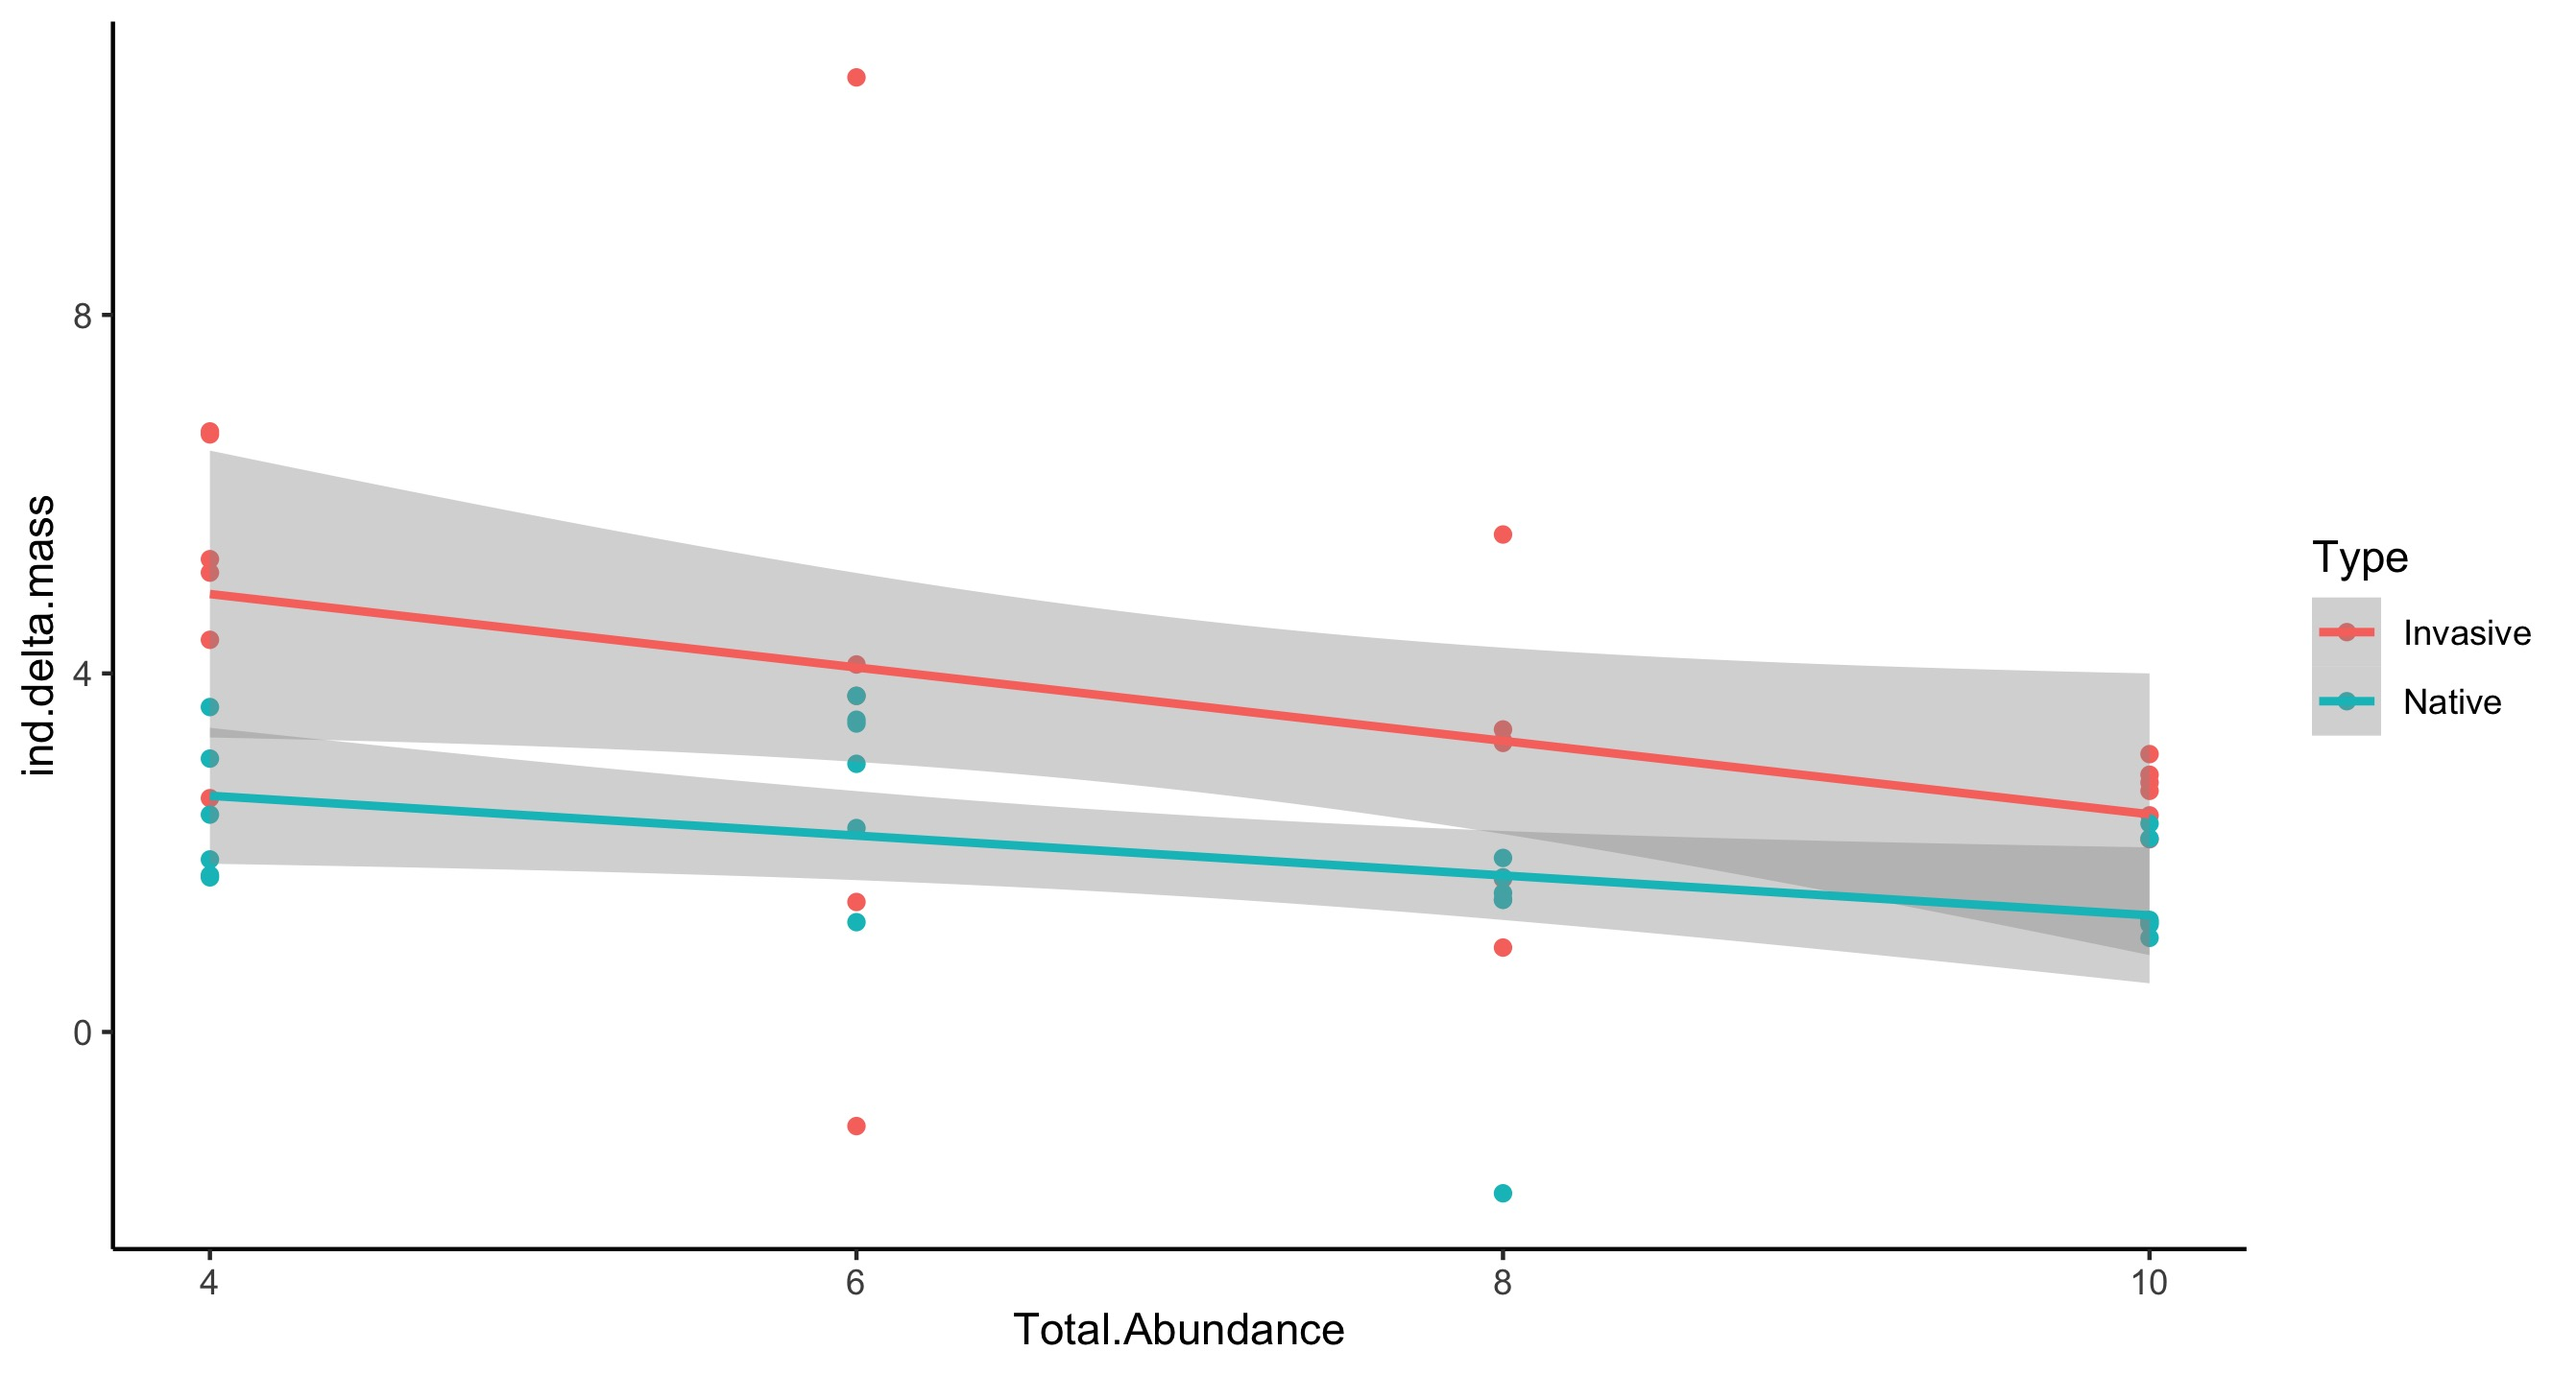
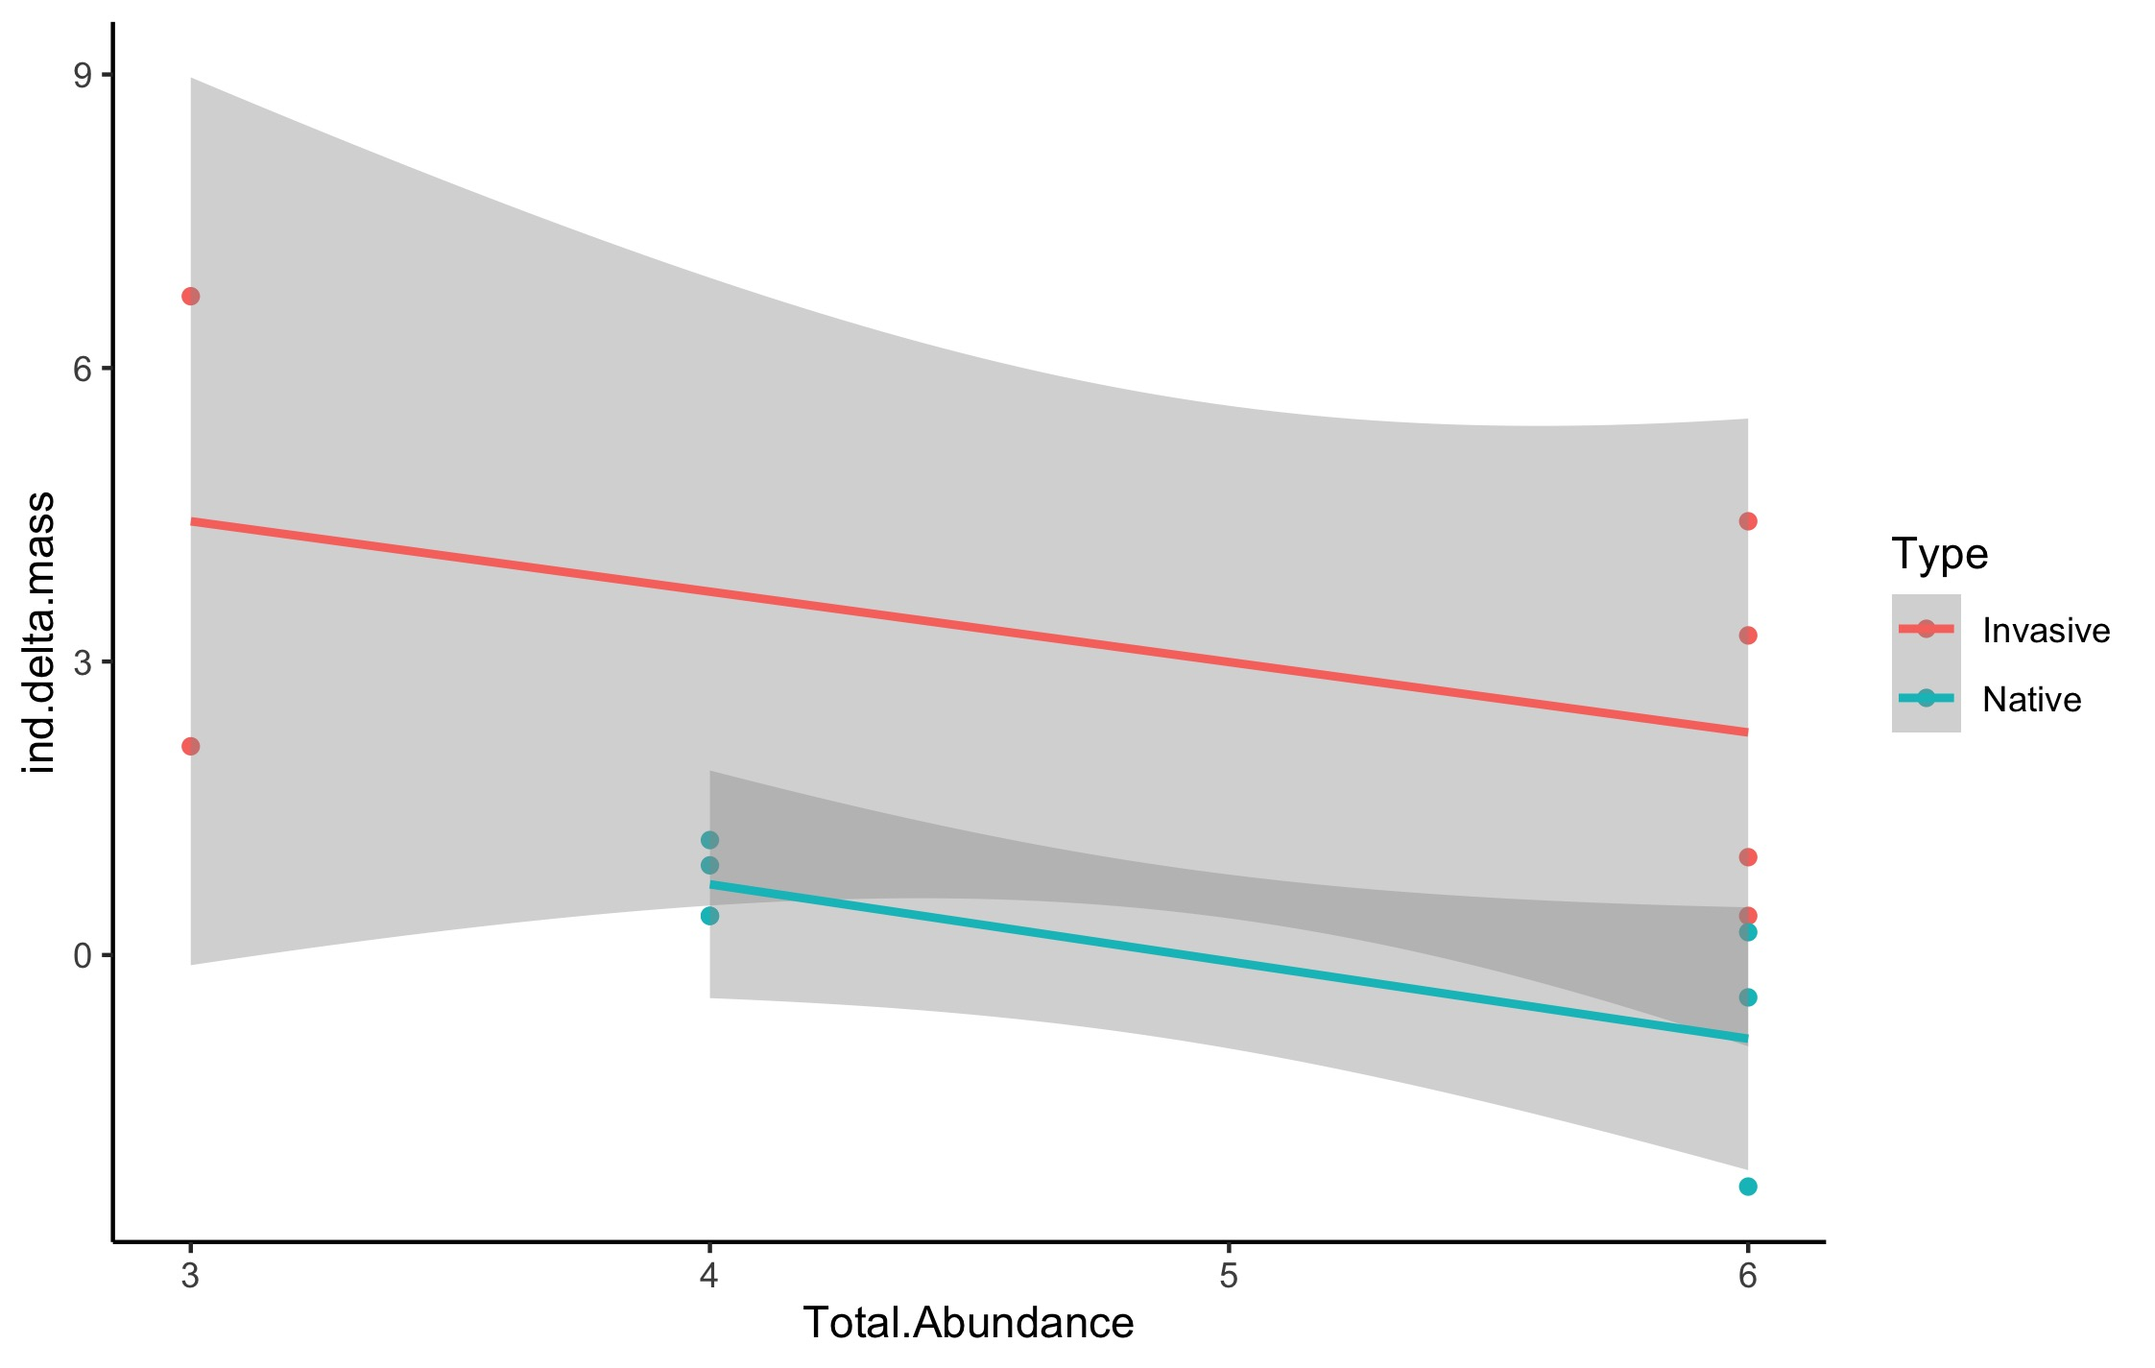
completed analysis of 2015 Mass

diff --git a/lab_notebook/analysis/crayfish_mass_change.md b/lab_notebook/analysis/crayfish_mass_change.md
@@ -230,69 +230,83 @@ NOTE: These variable descriptions are for both the 'cray.N' and the 'cray.mean' 
     11  2016 Native   High                 3.5       0.837           2           4     6
     ################################################## 
     
-### Statisitical Tests
+## Statisitical Tests
     
 Because both types of crayfish were "subsampled" from the same tank. Tank is the experimental unit and we need to use a linear mixed model to analyze the data.
 
-#### 2015 Experiment
-##### Mass
-    
+### 2015 Experiment
+#### Mass
+
+The model uses `Total.Abundance` and `Type` as the fixed effects and `Tank` as the random effect on which the error ie estimated.
 
     (delta.mass.tot.abundance.mod.2015 <- lmer(ind.delta.mass ~ 1 + Total.Abundance * Type + (1|Tank) , data = cray.mean, subset = Year == "2015"))
     
     summary(delta.mass.tot.abundance.mod.2015)
     anova(delta.mass.tot.abundance.mod.2015)
 
+    ################################################## 
+    # Model Details
+    > (delta.mass.tot.abundance.mod.2015 <- lmer(ind.delta.mass ~ 1 + Total.Abundance * Type + (1|Tank) , data = cray.mean, subset = Year == "2015"))
+    Linear mixed model fit by REML ['lmerModLmerTest']
+    Formula: ind.delta.mass ~ 1 + Total.Abundance * Type + (1 | Tank)
+    Data: cray.mean
+    Subset: Year == "2015"
+    REML criterion at convergence: 41.6386
+    Random effects:
+      Groups   Name        Std.Dev.
+    Tank     (Intercept) 1.3565  
+    Residual             0.9577  
+    Number of obs: 13, groups:  Tank, 10
+    Fixed Effects:
+      (Intercept)             Total.Abundance                  TypeNative  
+    6.59167                    -0.71944                    -3.15301  
+    Total.Abundance:TypeNative  
+    0.04051  
     
-***************************************************************************    
-# All of the analyses below are based on simple linear models and they are pseudoreplicated
-      
-#### 2015 Experiment
-##### Mass
-
-#### The effect of total crayfish abundance at the beginning of the exp on individual crayfish change in mass.
+    # Sumary of results as a regression analysis
     
-~~Based on the data there are two ways to analyze the results. One approach would be to treat the number of crayfish in the treatments as a continuous variable and analyze the data as an regression with `abundance` and `type` as a covariate. ~~
-
-
-##### Regression of mass change by total abundance 
-
-    summary(lm(ind.delta.mass ~ total.abundance * type, data = cray.mean, subset = year == "2015"))
+    > summary(delta.mass.tot.abundance.mod.2015)
+    Linear mixed model fit by REML. t-tests use Satterthwaites method ['lmerModLmerTest']
+    Formula: ind.delta.mass ~ 1 + Total.Abundance * Type + (1 | Tank)
+    Data: cray.mean
+    Subset: Year == "2015"
     
-    ##################################################    
-    all:
-      lm(formula = ind.delta.mass ~ Total.Abundance * Type, data = cray.mean, 
-         subset = Year == "2015")
+    REML criterion at convergence: 41.6
     
-    Residuals:
-      Min      1Q  Median      3Q     Max 
-    -2.3000 -1.2750  0.1938  0.9917  2.3000 
+    Scaled residuals: 
+    Min      1Q  Median      3Q     Max 
+    -0.8827 -0.3583 -0.1122  0.3444  0.9887 
     
-    Coefficients:
-                               Estimate Std. Error t value Pr(>|t|)  
-    (Intercept)                 6.59167    2.52294   2.613   0.0281 *
-    Total.Abundance            -0.71944    0.48554  -1.482   0.1726  
-    TypeNative                 -2.71181    4.06232  -0.668   0.5212  
-    Total.Abundance:TypeNative -0.06979    0.80518  -0.087   0.9328  
+    Random effects:
+    Groups   Name        Variance Std.Dev.
+    Tank     (Intercept) 1.8402   1.3565  
+    Residual             0.9172   0.9577  
+    Number of obs: 13, groups:  Tank, 10
+    
+    Fixed effects:
+    Estimate Std. Error       df t value Pr(>|t|)  
+    (Intercept)                 6.59167    2.49084  7.88010   2.646   0.0298 *
+    Total.Abundance            -0.71944    0.47936  7.88010  -1.501   0.1724  
+    TypeNative                 -3.15301    3.71962  8.73557  -0.848   0.4192  
+    Total.Abundance:TypeNative  0.04051    0.67304  8.91100   0.060   0.9533  
     ---
-    Residual standard error: 1.682 on 9 degrees of freedom
-    (1 observation deleted due to missingness)
-    Multiple R-squared:  0.6023,	Adjusted R-squared:  0.4697 
-    F-statistic: 4.543 on 3 and 9 DF,  p-value: 0.03349
+    
+    Correlation of Fixed Effects:
+    (Intr) Ttl.Ab TypNtv
+    Totl.Abndnc -0.962              
+    TypeNative  -0.570  0.472       
+    Ttl.Abnd:TN  0.548 -0.475 -0.984
+    
+    # Summary of results as an ANOVA 
+    > anova(delta.mass.tot.abundance.mod.2015)
+    Type III Analysis of Variance Table with Satterthwaites method
+    Sum Sq Mean Sq NumDF  DenDF F value Pr(>F)
+    Total.Abundance      2.36101 2.36101     1 7.0898  2.5741 0.1521
+    Type                 0.65907 0.65907     1 8.7356  0.7185 0.4192
+    Total.Abundance:Type 0.00332 0.00332     1 8.9110  0.0036 0.9533
     ################################################## 
     
-    anova(lm(ind.delta.mass ~ Total.Abundance * Type, data = cray.mean, subset = Year == "2015"))
-    
-    ##################################################
-    Analysis of Variance Table
-    
-    Response: ind.delta.mass
-    Df  Sum Sq Mean Sq F value   Pr(>F)   
-    Total.Abundance       1  8.5028  8.5028  3.0056 0.117010   
-    Type                  1 30.0364 30.0364 10.6173 0.009864 **
-    Total.Abundance:Type  1  0.0213  0.0213  0.0075 0.932825   
-    Residuals             9 25.4609  2.8290              
-    ################################################## 
+#### Plot of the 2015 Experiment Change in Mass by Total Abundance
     
     ggplot(subset(cray.mean, Year == "2015"), mapping = aes(y = ind.delta.mass, x = Total.Abundance, color = Type)) +
              geom_point() +
@@ -300,25 +314,11 @@ Because both types of crayfish were "subsampled" from the same tank. Tank is the
                method = "lm"
              ) +
              theme_classic()
-    ggsave(filename = "ind.delta.mass.by.abundance.jpg", path = "./output/plots", dpi = 300)
+    ggsave(filename = "ind_delta_mass_by_abundance_2015.jpg", path = "./output/plots", dpi = 300)
     
-![ind.delta.mass.by.abundance](../output/plots/ind.delta.mass.by.abundance.jpg)
+![ind_delta_mass_by_abundance_2015](../output/plots/ind.delta_mass_by_abundance_2015.jpg)
     
-##### ANOVA of change in mass by treatment
-    
-The other way to analyze the effect would be to treat the different abundance levels as a catagorical variable and analyze the effect on the response with a two-way ANOVA.
-    
-    anova(lm(ind.delta.mass ~ Treatment * Type, data = cray.mean, subset = Year == "2015"))
-    
-    ################################################## 
-    Analysis of Variance Table
-    
-    Response: ind.delta.mass
-    Df Sum Sq Mean Sq F value  Pr(>F)  
-    Treatment  2 21.760  10.880  3.8459 0.06206 .
-    Type       1 16.801  16.801  5.9387 0.03755 *
-    Residuals  9 25.461   2.829 
-    ################################################## 
+##### Plot of the 2015 Experiment Change in Mass by Treatment
     
     ggplot(subset(cray.mean, Year == "2015"), mapping = aes(y = ind.delta.mass, x = Treatment, color = Type)) +
              geom_point(
@@ -334,9 +334,13 @@ The other way to analyze the effect would be to treat the different abundance le
                position = position_dodge(width = 0.65)
               ) +
              theme_classic()
-    ggsave(filename = "ind.delta.mass.by.treatment.2015.jpg", path = "./output/plots", dpi = 300)
+    ggsave(filename = "ind_delta_mass_by_treatment_2015.jpg", path = "./output/plots", dpi = 300)
     
-![ind.delta.mass.by.treatment.2015.jpg](../output/plots/ind.delta.mass.by.treatment.jpg)
+![ind_delta_mass_by_treatment_2015.jpg](../output/plots/ind.delta_mass_by_treatment_2015.jpg)
+    
+### Description of the 2015 Experiment Change in Mass Results
+    
+
     
 #### Effect of abundance and treatment on final harvested mass
     
